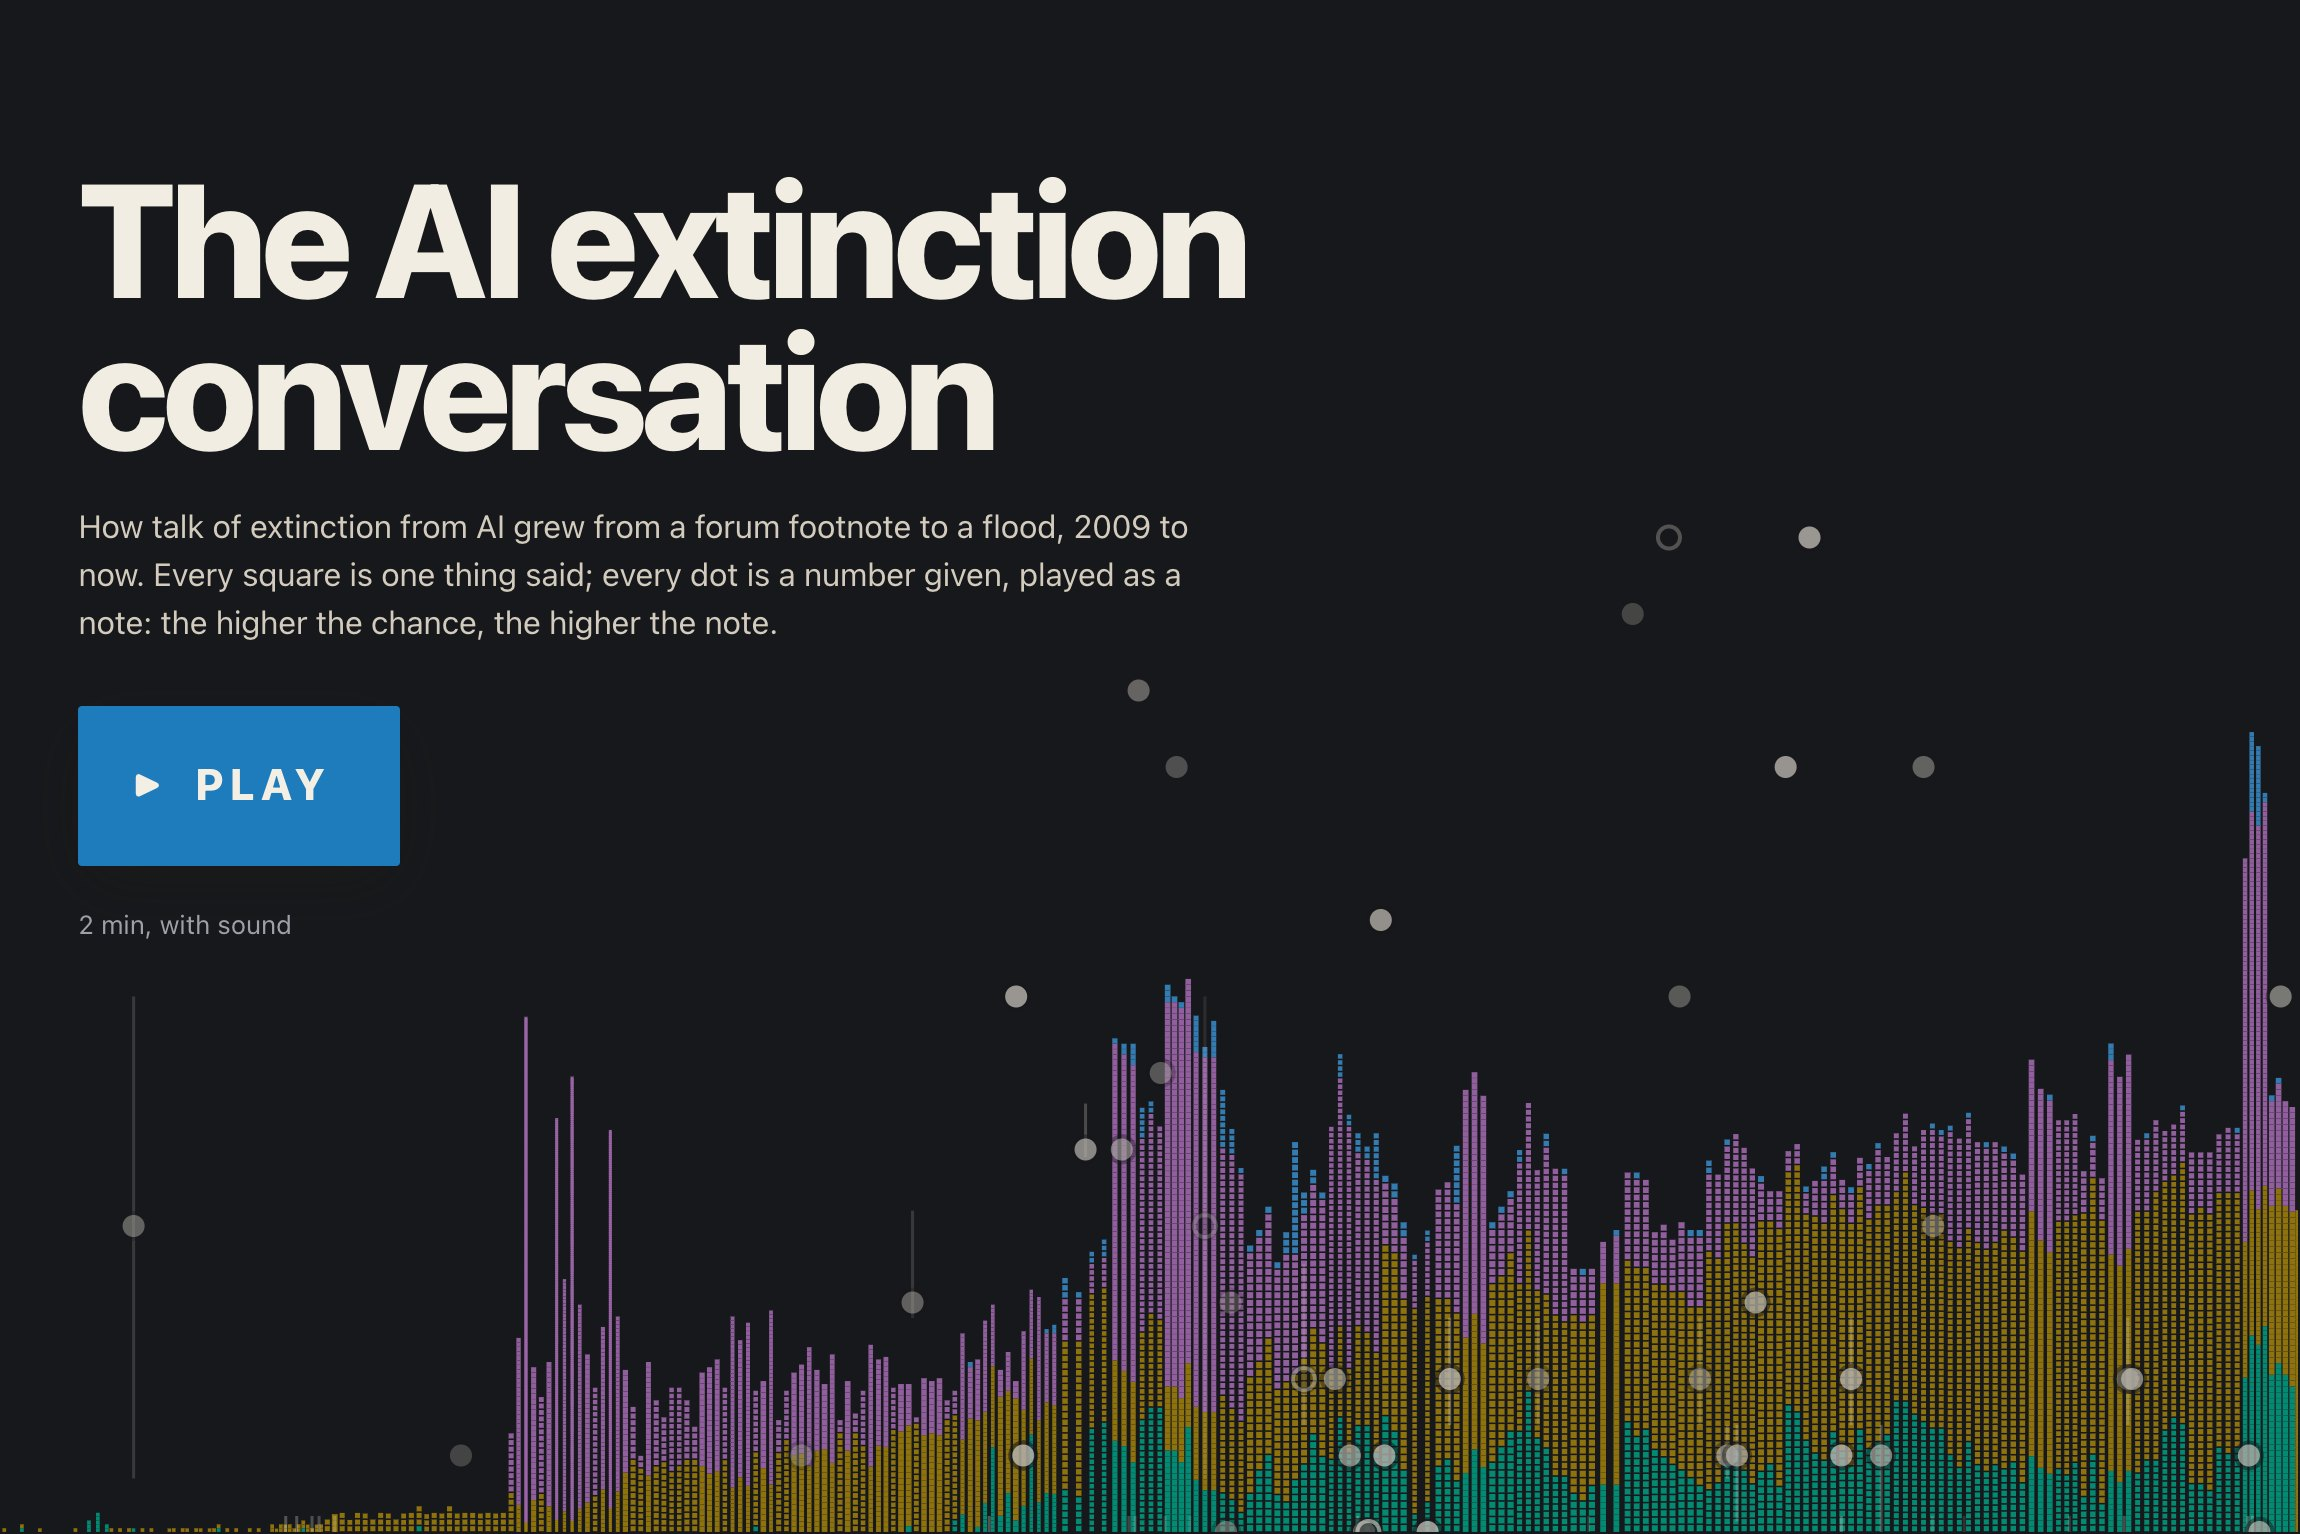
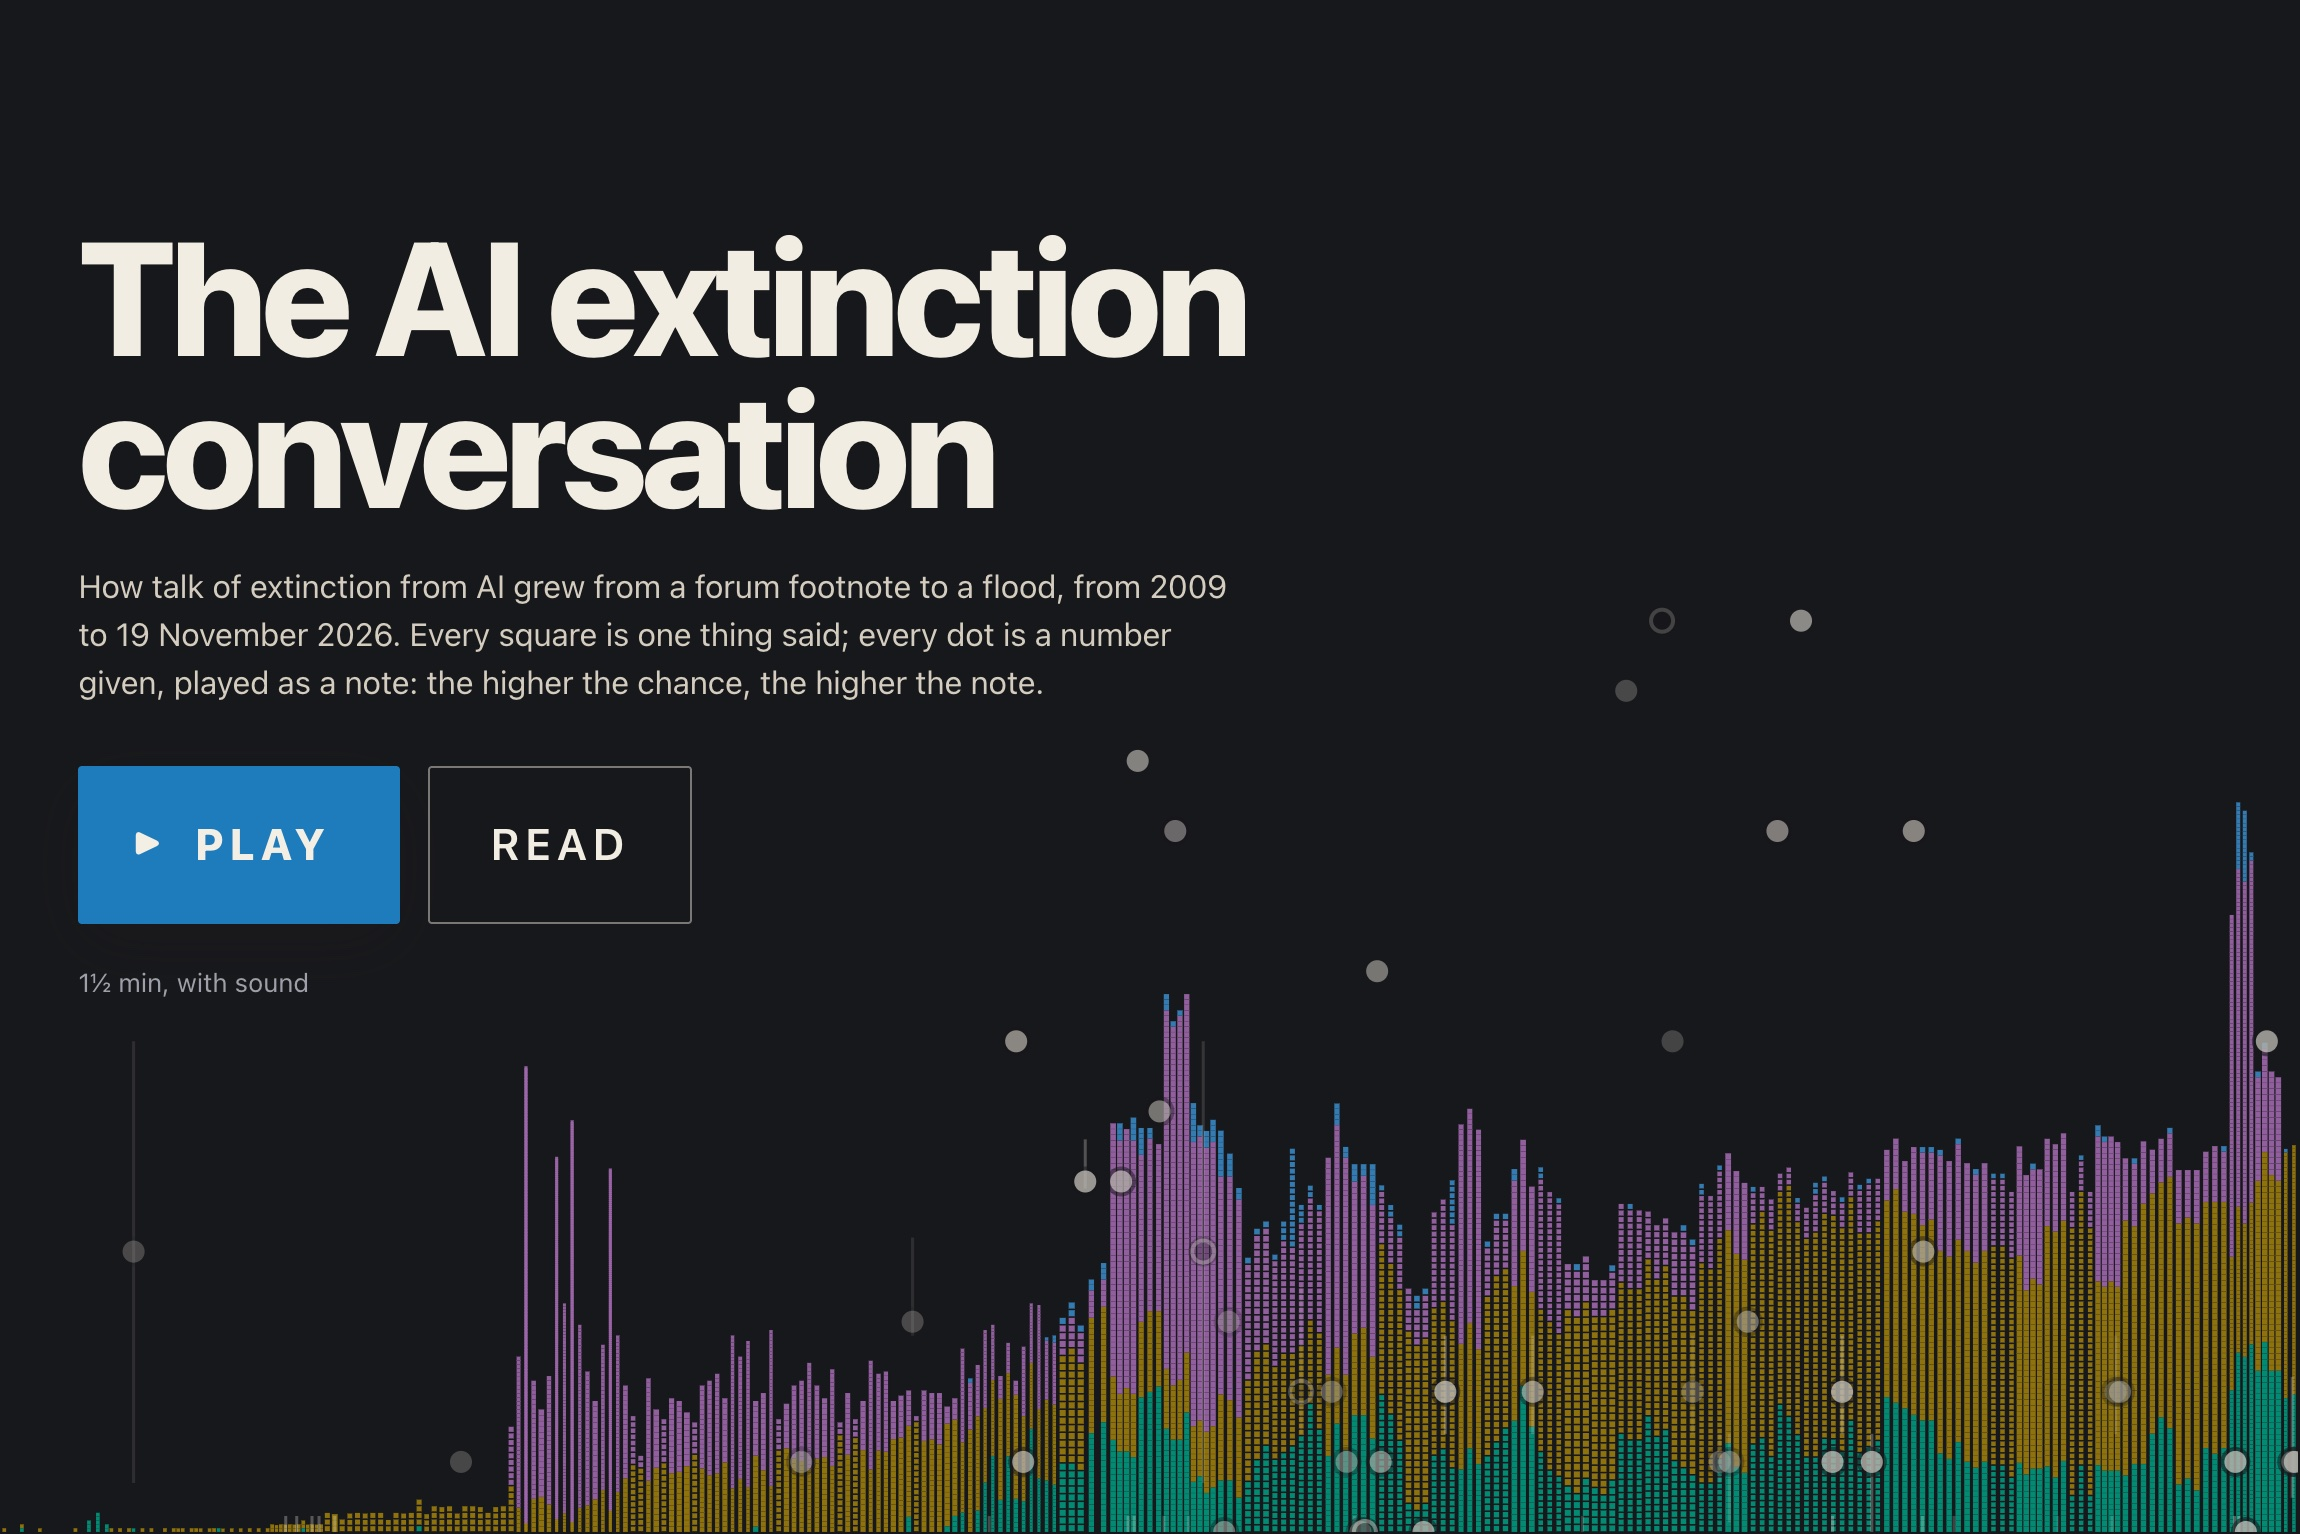
The Doom Score card: fresh picture of the current home, dated 19 Nov 2026

diff --git a/src/data/projects.ts b/src/data/projects.ts
@@ -200,7 +200,7 @@ export const projects: Project[] = [
     tagline:
       "How talk of AI ending humanity grew from a forum footnote to a flood, 2009 to now, played as sound. Every dot is someone's guess at the chance, played as a note.",
     year: "2026",
-    date: "2026-10-30",
+    date: "2026-11-19",
     field: "Foresight & evidence",
     topics: ["AI", "Futures"],
     kind: "story",
